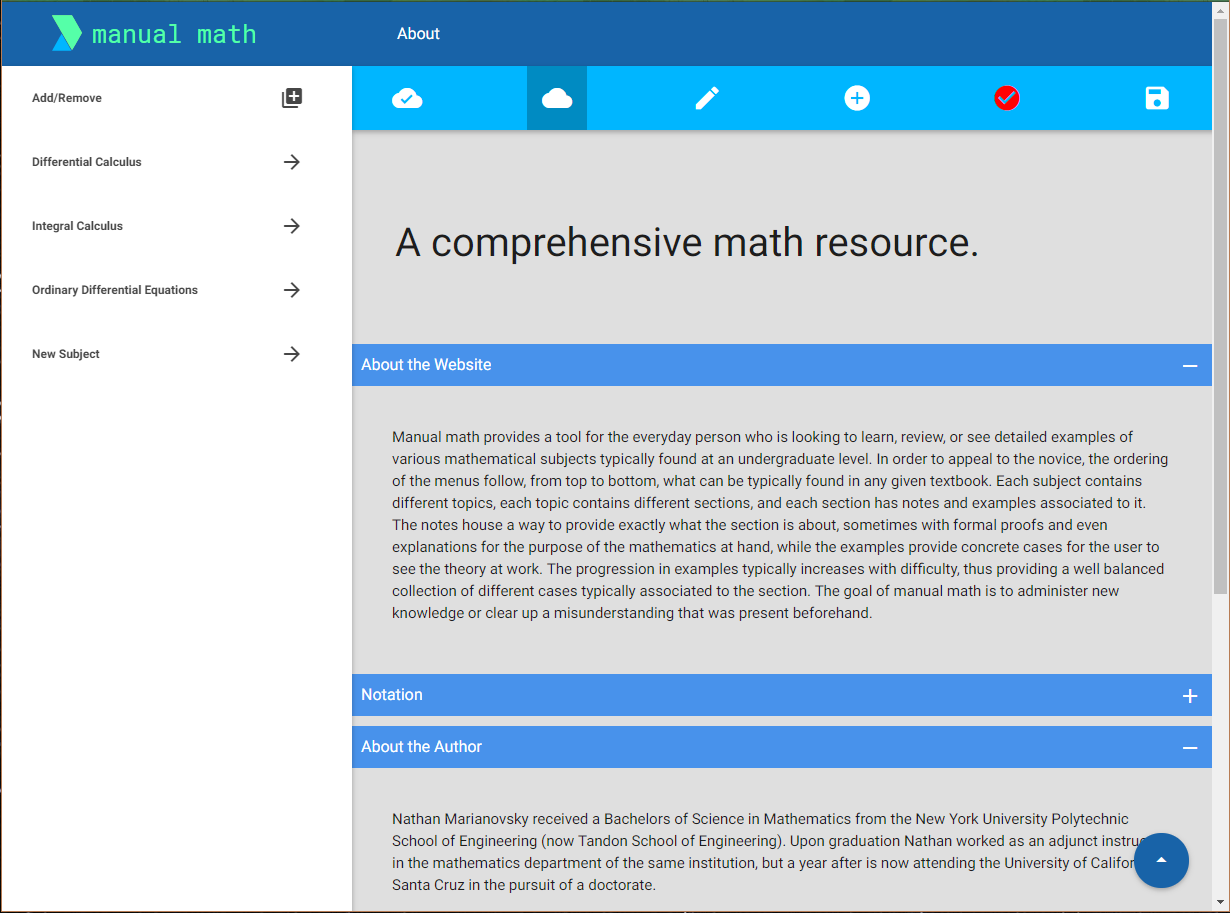
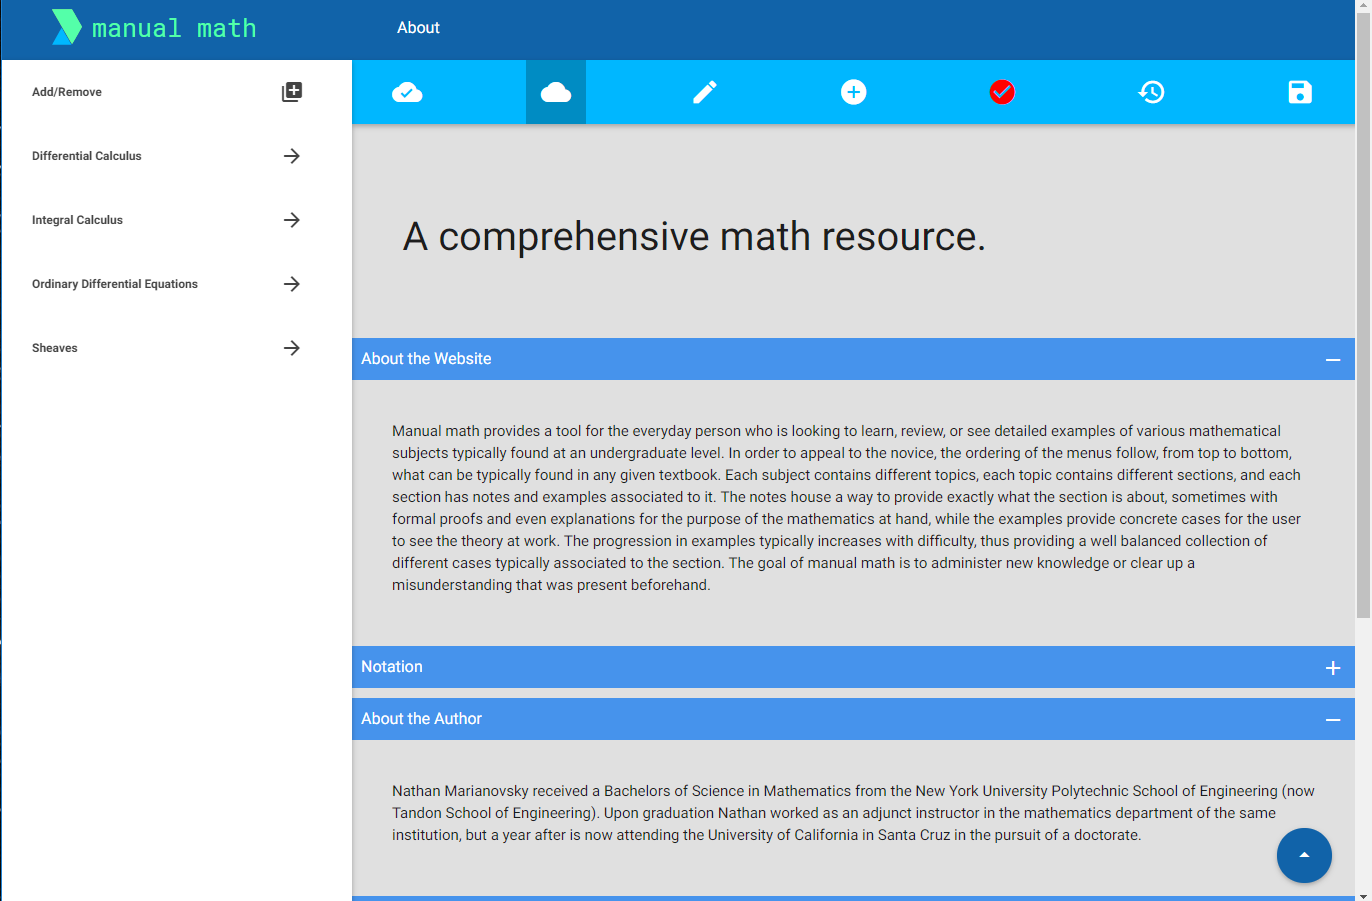
Documentation Update

diff --git a/README.md b/README.md
@@ -7,6 +7,9 @@
 
 - [Setting Up](#setting-up)
 - [Configuring the Database](#configuring-the-database)
+- [Client System](#client-system)
+    - [Accessing the Client System](#accessing-the-client-system)
+    - [General Structure of a Page](#general-structure-of-a-page)
 - [Content Management System](#content-management-system)
     - [Accessing the CMS](#accessing-the-cms)
     - [General Structure of a Page](#general-structure-of-a-page)
@@ -22,9 +25,13 @@
     - [Getting the Content of the About Page (POST)](#getting-the-content-of-the-about-page-post)
     - [Getting the Content of the About Page for Client (POST)](#getting-the-content-of-the-about-page-for-client-post)
     - [Changing the Content of the About Page (POST)](#changing-the-content-of-the-about-page-post)
+    - [Getting the Log of the About Page (POST)](#getting-the-log-of-the-about-page-post)
+    - [Changing the Log of the About Page (POST)](#changing-the-log-of-the-about-page-post)
     - [Getting the Content of any Subject, Topic, Section, or Example (POST)](#getting-the-content-of-any-subject-topic-section-or-example-post)
     - [Getting the Content of any Subject, Topic, Section, or Example for Client (POST)](#getting-the-content-of-any-subject-topic-section-or-example-for-client-post)
     - [Adding & Changing the Content of any Subject, Topic, Section, or Example (POST)](#adding--changing-the-content-of-any-subject-topic-section-or-example-post)
+    - [Getting the Log of any Subject, Topic, Section, or Example (POST)](#getting-the-log-of-any-subject-topic-section-or-example-post)
+    - [Changing the Log of any Subject, Topic, Section, or Example (POST)](#changing-the-log-of-any-subject-topic-section-or-example-post)
     - [Deleting any Subject, Topic, Section, or Example (POST)](#deleting-any-subject-topic-section-or-example-post)
     - [Adding a Contributor (POST)](#adding-a-contributor-post)
     - [Deleting a Contributor (POST)](#deleting-a-contributor-post)
@@ -77,6 +84,20 @@ The database is setup according to the following ERR diagram:
 Example builds can be found over at "/content/db".
 
 
+# Client System
+### Accessing the Client System
+To access the system direct your browser to "localhost" where you will encounter:
+
+<p align="center">
+    <img width=500 height=500 src="/img/client.png">
+</p>
+
+All navigation is completely controlled by the sidenav which is hidden by default on mobile displays (and small screens).
+
+### General Structure of a Page
+The pages corresponding to the about page or any subject, topic, section, or example take on the same design. Besides the sidenav and top nav, each page also contains a primary region where all content is placed. This content is specifically broken into small boxes that each contain a title and associated content. Such a box may or may not be hidden by default, but by simply clicking on the strip containing the title, the content can be shown and hidden respectively. 
+
+
 # Content Management System
 ### Accessing the CMS
 To access the system direct your browser to "localhost/login" where you will encounter:
@@ -107,7 +128,9 @@ provides all of the functionality to:
 * edit the content of any subject, topic, section, or example
 * add a box with an associated title and body of content (only available in the edit view)
 * approve the current changes to the content so as to push it live to the client side
+* view the history of the current subject, topic, section, or example
 * save any changes to the database permanently
+
 It is important to note that any changes made on a page are not pushed to the database unless the save button is explicitly clicked. Moreover, for current changes to be pushed onto the client side the system uses a logarithmic scaling based on the number of active contributors to determine how many approvals are needed. If changes are made to the content of the page all previous approvals are reset by design to ensure that contributors do not provide approvals for content they may not have necessarily seen. 
 
 ### Editing a Page
@@ -145,12 +168,13 @@ where subjects, topics, sections, or examples can be added (depending on where y
     <img src="/img/cms-nav-modal.png">
 </p>
 
-It is here that new subjects, topics, sections, and examples can be added with the capability, like the current items, to have their names and order edited. Furthermore, each will have an associated approval and disapproval that functions in exactly the same manner as the content approval system. Therefore, an item will only be pushed to the client nav or deleted all together when the necessary number of approvals are given. It is important to note that like the content editing mode, any changes made to the sidenav are only pushed to the database when the button is explicitly clicked.
+It is here that new subjects, topics, sections, and examples can be added with the capability, like the current items, to have their names and order edited. Furthermore, each will have an associated approval and disapproval that functions in exactly the same manner as the content approval system. Therefore, an item will only be pushed to the client nav or deleted all together when the necessary number of approvals are given, both of which are permanent changes. It is important to note that like the content editing mode, any changes made to the sidenav are only pushed to the database when the button is explicitly clicked.
 
 ### Floating Action Button
 At the bottom right of each page you will find the button which provides the following functionality:
 * logout as a contributor
 * update profile information
+* see all subjects, topics, sections, and examples that are missing your content approval currently
 * approve/disapprove incoming contributors (only for committee members and administrator)
 * provide an opinion on current non-committee members as to whether they should join the committee or not (only for committee members)
 * add/remove a contributor from the committee and delete a contributor from the system (administrator only)
@@ -209,6 +233,25 @@ where you would be required to provide the JSON data that has the parameters:
 * content_cms
 * cms_approval
 
+### Getting the Log of the About Page (POST)
+To get the log of the about page you would call on:
+```
+localhost/api/want/about
+```
+alongside the JSON data that requires the parameter:
+* id
+which is the id of the object.
+
+### Changing the Log of the About Page (POST)
+To change the log of the about page you would call on:
+```
+localhost/api/change/about
+```
+alongside the JSON data that requires the parameters:
+* id
+* log
+where log represents the string containing all historical changes with splits based on "-----" (for events) and "_____" (for date and description). 
+
 ### Getting the Content of any Subject, Topic, Section, or Example (POST)
 To get the content of the requested item you would call on:
 ```
@@ -250,6 +293,35 @@ where "obj" represents what we want to work with which can be one of four things
 alongside the JSON data that requires the parameter:
 * param
 which is the id of the object.
+
+### Getting the Log of any Subject, Topic, Section, or Example (POST)
+To get the log of the requested item you would call on:
+```
+localhost/api/want/:obj
+```
+where "obj" represents what we want to work with which can be one of four things:
+* subject
+* topic
+* section
+* example
+alongside the JSON data that requires the parameter:
+* id
+which is the id of the object.
+
+### Changing the Log of any Subject, Topic, Section, or Example (POST)
+To change the log of the requested item you would call on:
+```
+localhost/api/change/:obj
+```
+where "obj" represents what we want to work with which can be one of four things:
+* subject
+* topic
+* section
+* example
+alongside the JSON data that requires the parameters:
+* id
+* log
+where log represents the string containing all historical changes with splits based on "-----" (for events) and "_____" (for date and description). 
 
 ### Deleting any Subject, Topic, Section, or Example (POST)
 To delete the requested item from the database you would call on:
